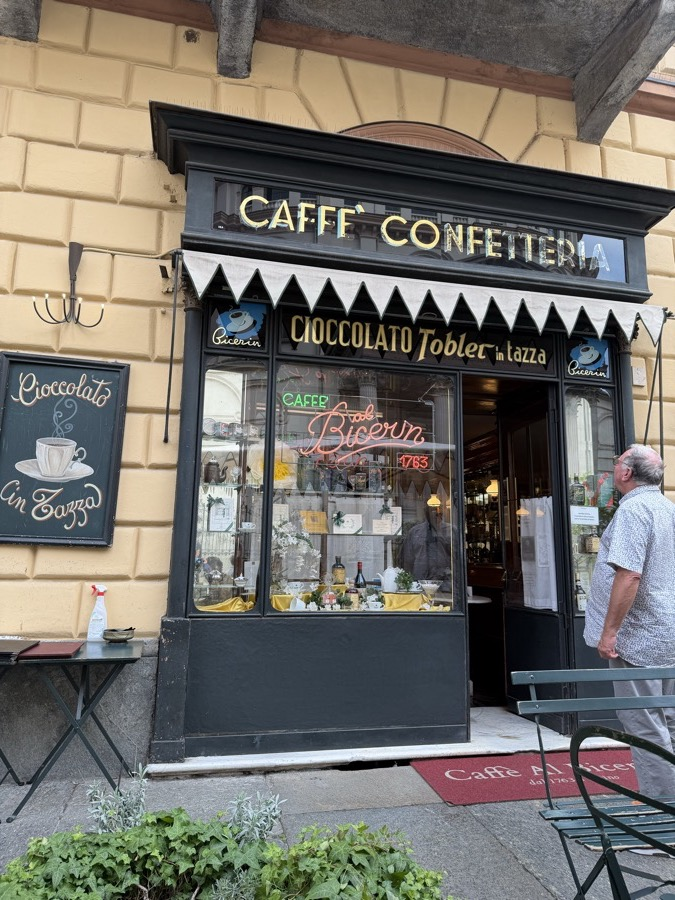
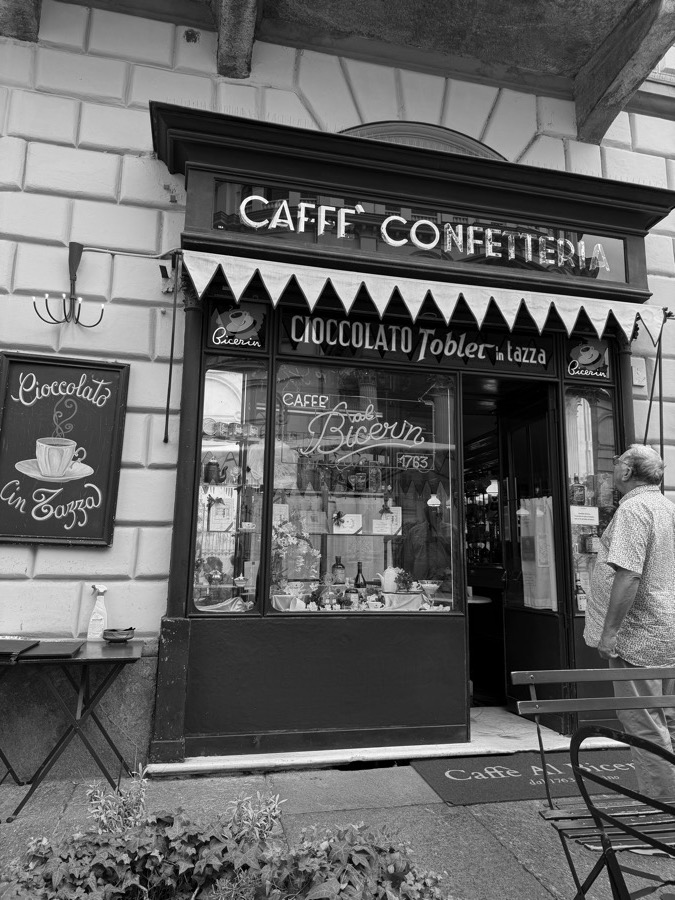
Drop the breakfast plate; set the Pleyel and the cafe in black and white.

diff --git a/writing/turin-travelogue.html b/writing/turin-travelogue.html
@@ -39,7 +39,7 @@
   <link rel="preconnect" href="https://fonts.googleapis.com"/>
   <link rel="preconnect" href="https://fonts.gstatic.com" crossorigin/>
   <link href="https://fonts.googleapis.com/css2?family=Source+Serif+4:ital,opsz,wght@0,8..60,400;0,8..60,600;1,8..60,400&display=swap" rel="stylesheet"/>
-  <link rel="stylesheet" href="../styles.css?v=62"/>
+  <link rel="stylesheet" href="../styles.css?v=63"/>
 </head>
 <body>
   <div class="wrap">
@@ -121,8 +121,8 @@
 
           <h3 class="part dateline"><span class="place">Turin</span><time class="when" datetime="2026-09-12">12 September 2026</time></h3>
           <figure class="plate tall">
-            <img src="turin/arcades.jpg" width="675" height="900" loading="lazy" alt="Arcades"/>
-            <figcaption>Arcades</figcaption>
+            <img src="turin/arcades.jpg" width="675" height="900" loading="lazy" alt="Street"/>
+            <figcaption>Street</figcaption>
           </figure>
           <figure class="plate tall">
             <img src="turin/car-show.jpg" width="675" height="900" loading="lazy" alt="The car show"/>
@@ -201,10 +201,6 @@
             bedroom. These days, I can barely sleep; it feels as if I contain too much, as if I am encumbered with
             an overwhelming need to walk in loops for miles around the city.
           </p>
-          <figure class="plate">
-            <img src="turin/breakfast.jpg" width="900" height="675" loading="lazy" alt="Breakfast"/>
-            <figcaption>Breakfast</figcaption>
-          </figure>
           <p>
             Every morning, I take two <i lang="it">tramezzino</i> squares followed by cups of freshly squeezed orange juice,
             coffee in some form, and still mineral water. I burn around 21 euros for breakfast, a cost for this food
